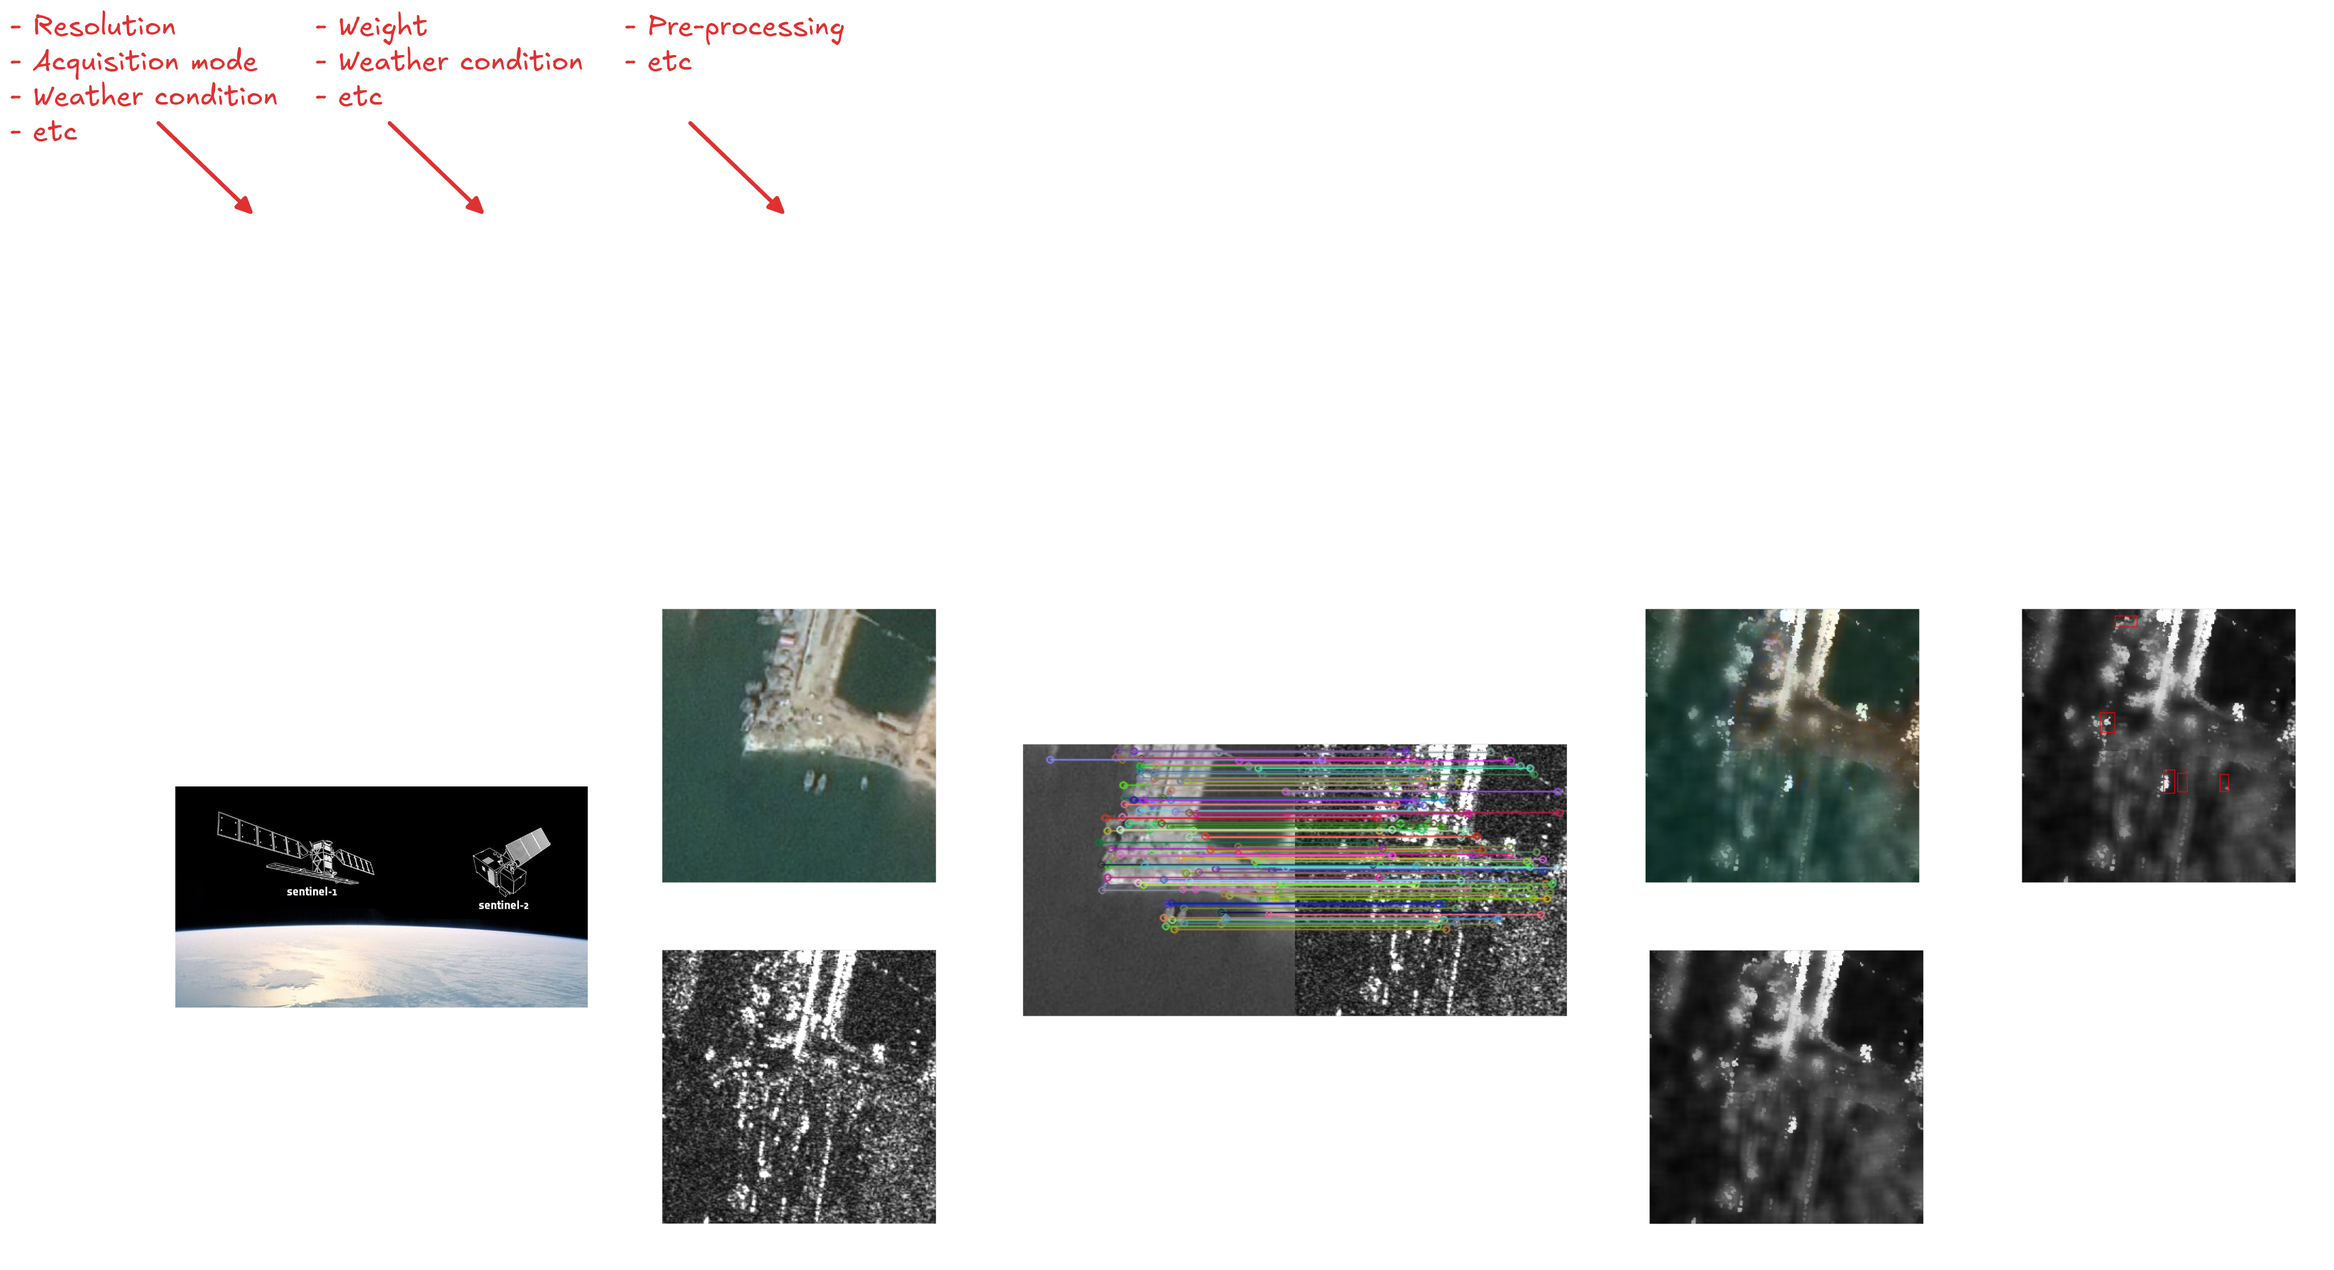
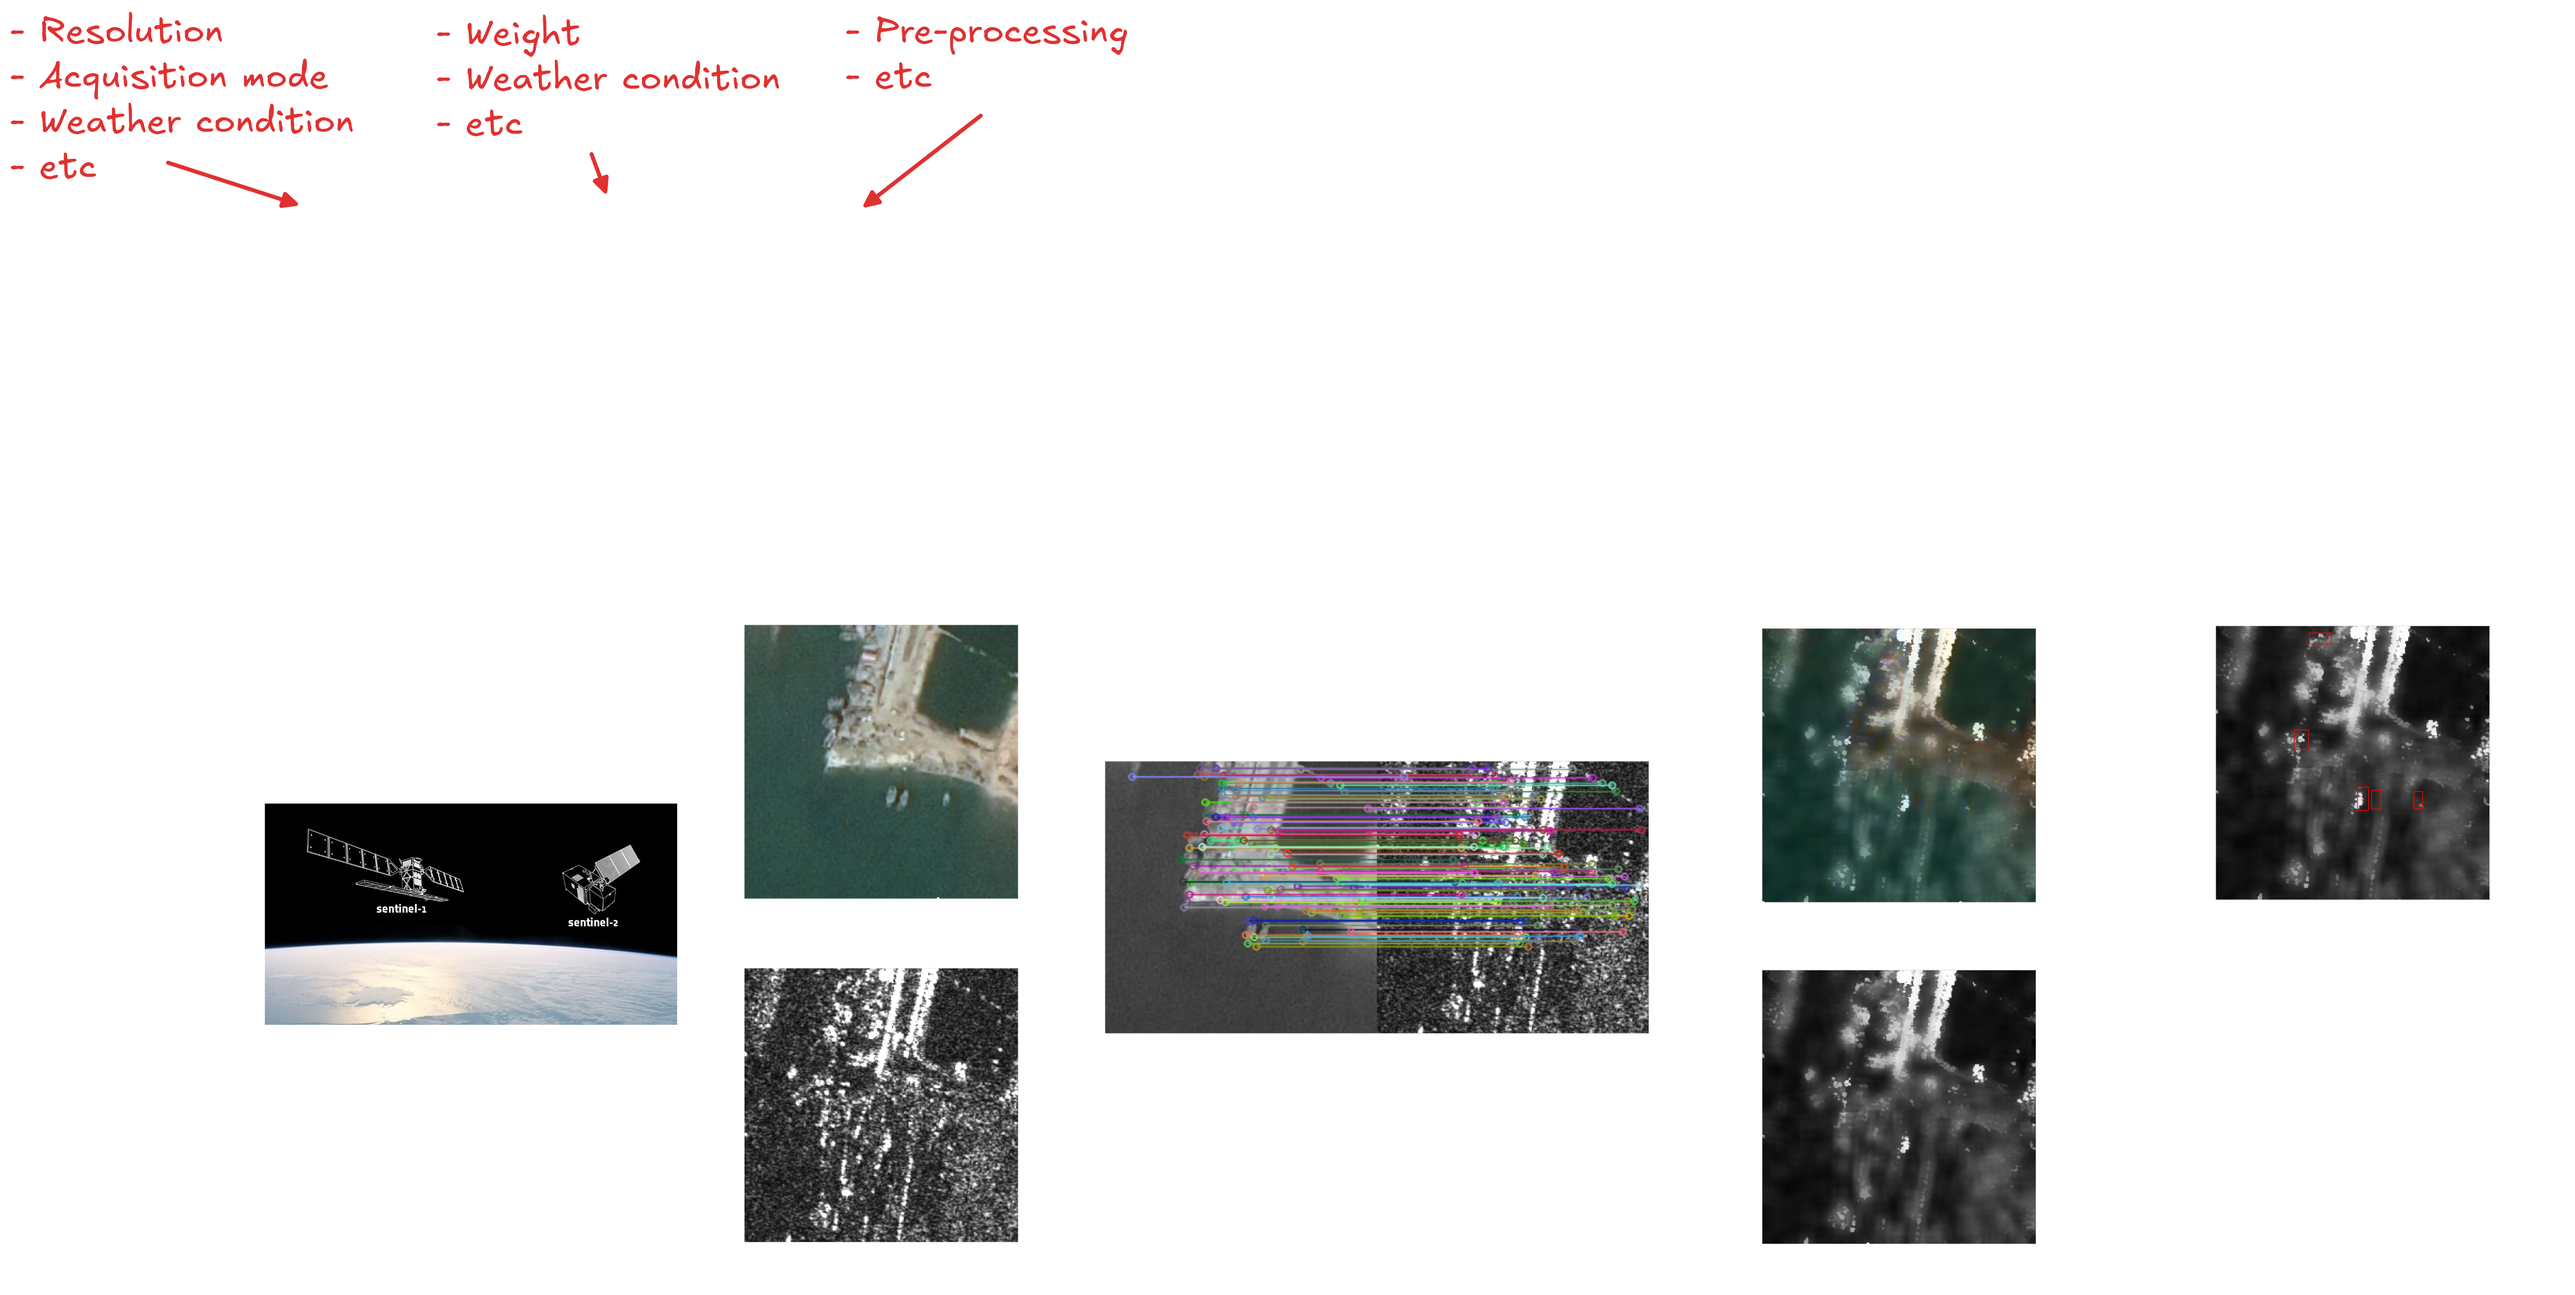
update

diff --git a/250702_dso/public/index.html b/250702_dso/public/index.html
@@ -39,7 +39,7 @@
 					<h2 class='slide-title' style="color:#9ecdff" align="left">Workflow</h2><hr>
 
 					<figure>
-						<img style="width: 85%" src="resources/workflow.png">
+						<img style="width: 90%" src="resources/workflow.png">
 					</figure>
 				</section>
 				
@@ -110,12 +110,12 @@
 						<div style="width: 40%">
 							<figure>
 								<img style="height: 350px" src="resources/superpoint_matched_keypoints.png">
-								<figcaption>Fig. Keypoint matching (radius=5)</figcaption>
+								<figcaption style="margin-top: -0.8em;">Fig. Keypoint matching (radius=5)</figcaption>
 							</figure>
-
+							<br>
 							<figure>
 								<img style="height: 350px" src="resources/superpoint_descriptor_importance.png">
-								<figcaption>Fig. Keypoint weight (red=high, blue=low)</figcaption>
+								<figcaption style="margin-top: -0.8em;">Fig. Keypoint weight (red=high, blue=low)</figcaption>
 							</figure>
 						</div>
 
@@ -126,13 +126,20 @@
 						<div style="width: 55%">
 							<figure>
 								<img style="height: 500px" src="resources/superpoint_keypoints_vs_radius.png">
-								<figcaption>Fig. % of keypoints as a function of the radius</figcaption>
+								<figcaption style="margin-top: -0.8em;">Fig. % of keypoints as a function of the radius</figcaption>
 							</figure>
 
-							<br>
-							<p data-markdown="" style="text-align: left">
-								* For a radius r=5, 20% of keypoints are matching
-								* Consistent across different images
+							<br><br>
+							<div style="text-align: left;">
+								Calculated on the QXS-SAROPT dataset [1]
+							</div>
+							<div style="text-align: left; color: rgb(255, 67, 67);">
+								For a radius r=5, ~20% of keypoints are consistently matched
+							</div>
+
+							<hr>
+							<p data-markdown style="text-align: left; font-size:20px">
+								[1] [The QXS-SAROPT Dataset for Deep Learning in SAR-Optical Data Fusion, Huang et al., 2021](https://arxiv.org/abs/2103.08259)
 							</p>
 						</div>
 					</div>
@@ -143,16 +150,28 @@
 
 					<div style="display: flex;">
 						<div style="width: 25%">
-							<img style="width: 75%" src="resources/cyclegan_real_B.png">
+							<figure align="center">
+								<img style="width: 75%" src="resources/cyclegan_real_B.png">
+								<figcaption style="margin-top: -0.8em;">Real optical</figcaption>
+							</figure>
 						</div>
 						<div style="width: 25%">
-							<img style="width: 75%" src="resources/cyclegan_fake_B.png">
+							<figure align="center">
+								<img style="width: 75%" src="resources/cyclegan_fake_B.png">
+								<figcaption style="margin-top: -0.8em;">Translated SAR</figcaption>
+							</figure>
 						</div>
 						<div style="width: 25%">
-							<img style="width: 75%" src="resources/cyclegan_real_A.png">
+							<figure align="center">
+								<img style="width: 75%" src="resources/cyclegan_real_A.png">
+								<figcaption style="margin-top: -0.8em;">Real SAR</figcaption>
+							</figure>
 						</div>
 						<div style="width: 25%">
-							<img style="width: 75%" src="resources/cyclegan_fake_A.png">
+							<figure align="center">
+								<img style="width: 75%" src="resources/cyclegan_fake_A.png">
+								<figcaption style="margin-top: -0.8em;">Translated optical</figcaption>
+							</figure>
 						</div>
 					</div>
 
@@ -160,13 +179,13 @@
 						<div style="width: 50%">
 							<figure align="center">
 								<img style="width: 80%" src="resources/cyclegan_opt_opt.png">
-								<figcaption>Fig. SAR to Optical</figcaption>
+								<figcaption style="margin-top: -0.8em;">Fig. SAR to Optical</figcaption>
 							</figure>
 						</div>
 						<div style="width: 50%">
 							<figure align="center">
 								<img style="width: 80%" src="resources/cyclegan_sar_sar.png">
-								<figcaption>Fig. Optical to SAR</figcaption>
+								<figcaption style="margin-top: -0.8em;">Fig. Optical to SAR</figcaption>
 							</figure>
 						</div>
 					</div>
@@ -179,13 +198,13 @@
 						<div style="width: 50%">
 							<figure align="center">
 								<img style="width: 100%" src="resources/dann_matches_before_adaptation.png">
-								<figcaption>Fig. Before adaptation</figcaption>
+								<figcaption style="margin-top: -0.8em;">Fig. Before adaptation</figcaption>
 							</figure>
 						</div>
 						<div style="width: 50%">
 							<figure align="center">
 								<img style="width: 100%" src="resources/dann_matches_after_adaptation.png">
-								<figcaption>Fig. After adaptation</figcaption>
+								<figcaption style="margin-top: -0.8em;">Fig. After adaptation</figcaption>
 							</figure>
 						</div>
 					</div>
@@ -231,7 +250,7 @@
 
 					<figure>
 						<img style="width: 100%" src="resources/despeckling_kmeans.png">
-						<figcaption>Fig. Optical-guided despeckling using K-means. From left to right: optical, SAR, filtered SAR, filtered and colorised SAR.</figcaption>
+						<figcaption style="margin-top: -0.8em;">Fig. Optical-guided despeckling using K-means. From left to right: optical, SAR, filtered SAR, filtered and colorised SAR.</figcaption>
 					</figure>
 				</section>
 
@@ -240,20 +259,11 @@
 
 					<figure>
 						<img style="width: 100%" src="resources/despeckling_filtered.png">
-						<figcaption>Fig. Optical-guided despeckling using distance metric. From left to right: optical, SAR, filtered SAR, filtered and colorised SAR.</figcaption>
+						<figcaption style="margin-top: -0.8em;">Fig. Optical-guided despeckling using distance metric. From left to right: optical, SAR, filtered SAR, filtered and colorised SAR.</figcaption>
 					</figure>
 
 					\[ \begin{aligned} \mathcal{D}_{\sigma_d}(p, q) &amp; =  \exp{\left(-\dfrac{||S(p)-S(q)||^2}{2 \sigma_d^2}\right)} \\
 					\mu(p) &amp; =  Z^{-1} \sum_{q} L_{SAR}(q) \mathcal{D}_{\sigma_d}(p, q) \end{aligned} \]
-				</section>
-
-				<section>
-					<h2 class='slide-title' align="left"><p style="color:#9ecdff">Despeckling</p></h2><hr>
-
-					<figure>
-						<img style="width: 60%" src="resources/despeckling_sar.png">
-						<figcaption>Fig. Despeckling using SAR descriptor</figcaption>
-					</figure>
 				</section>
 
 				<section>
